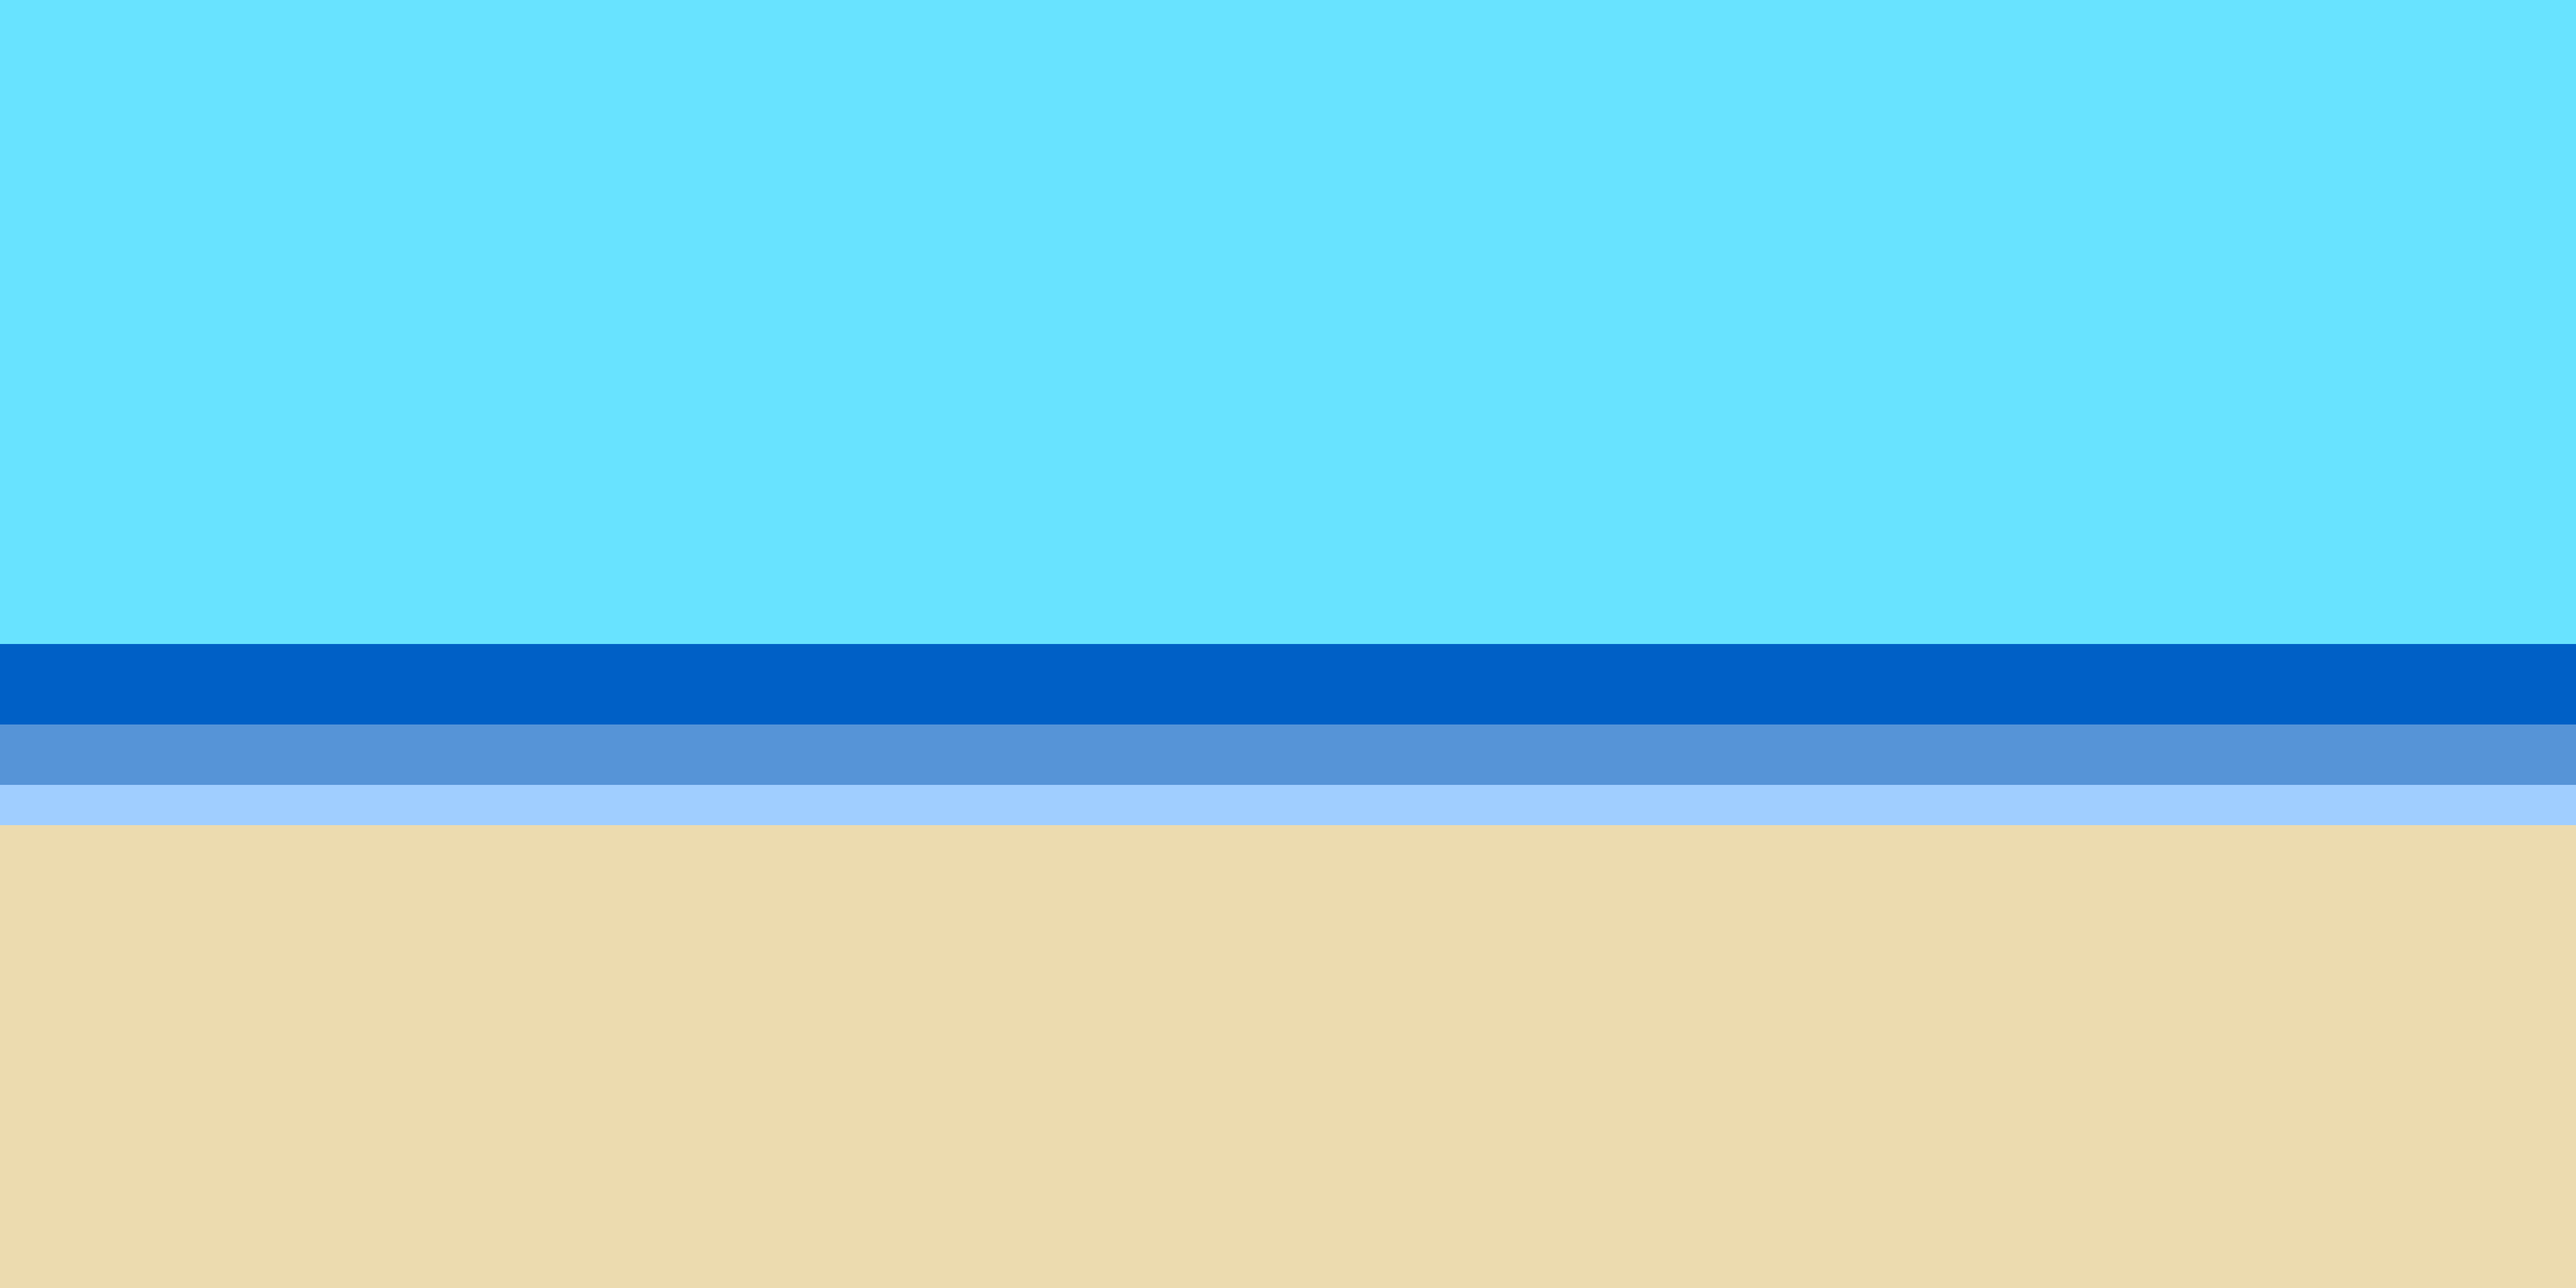
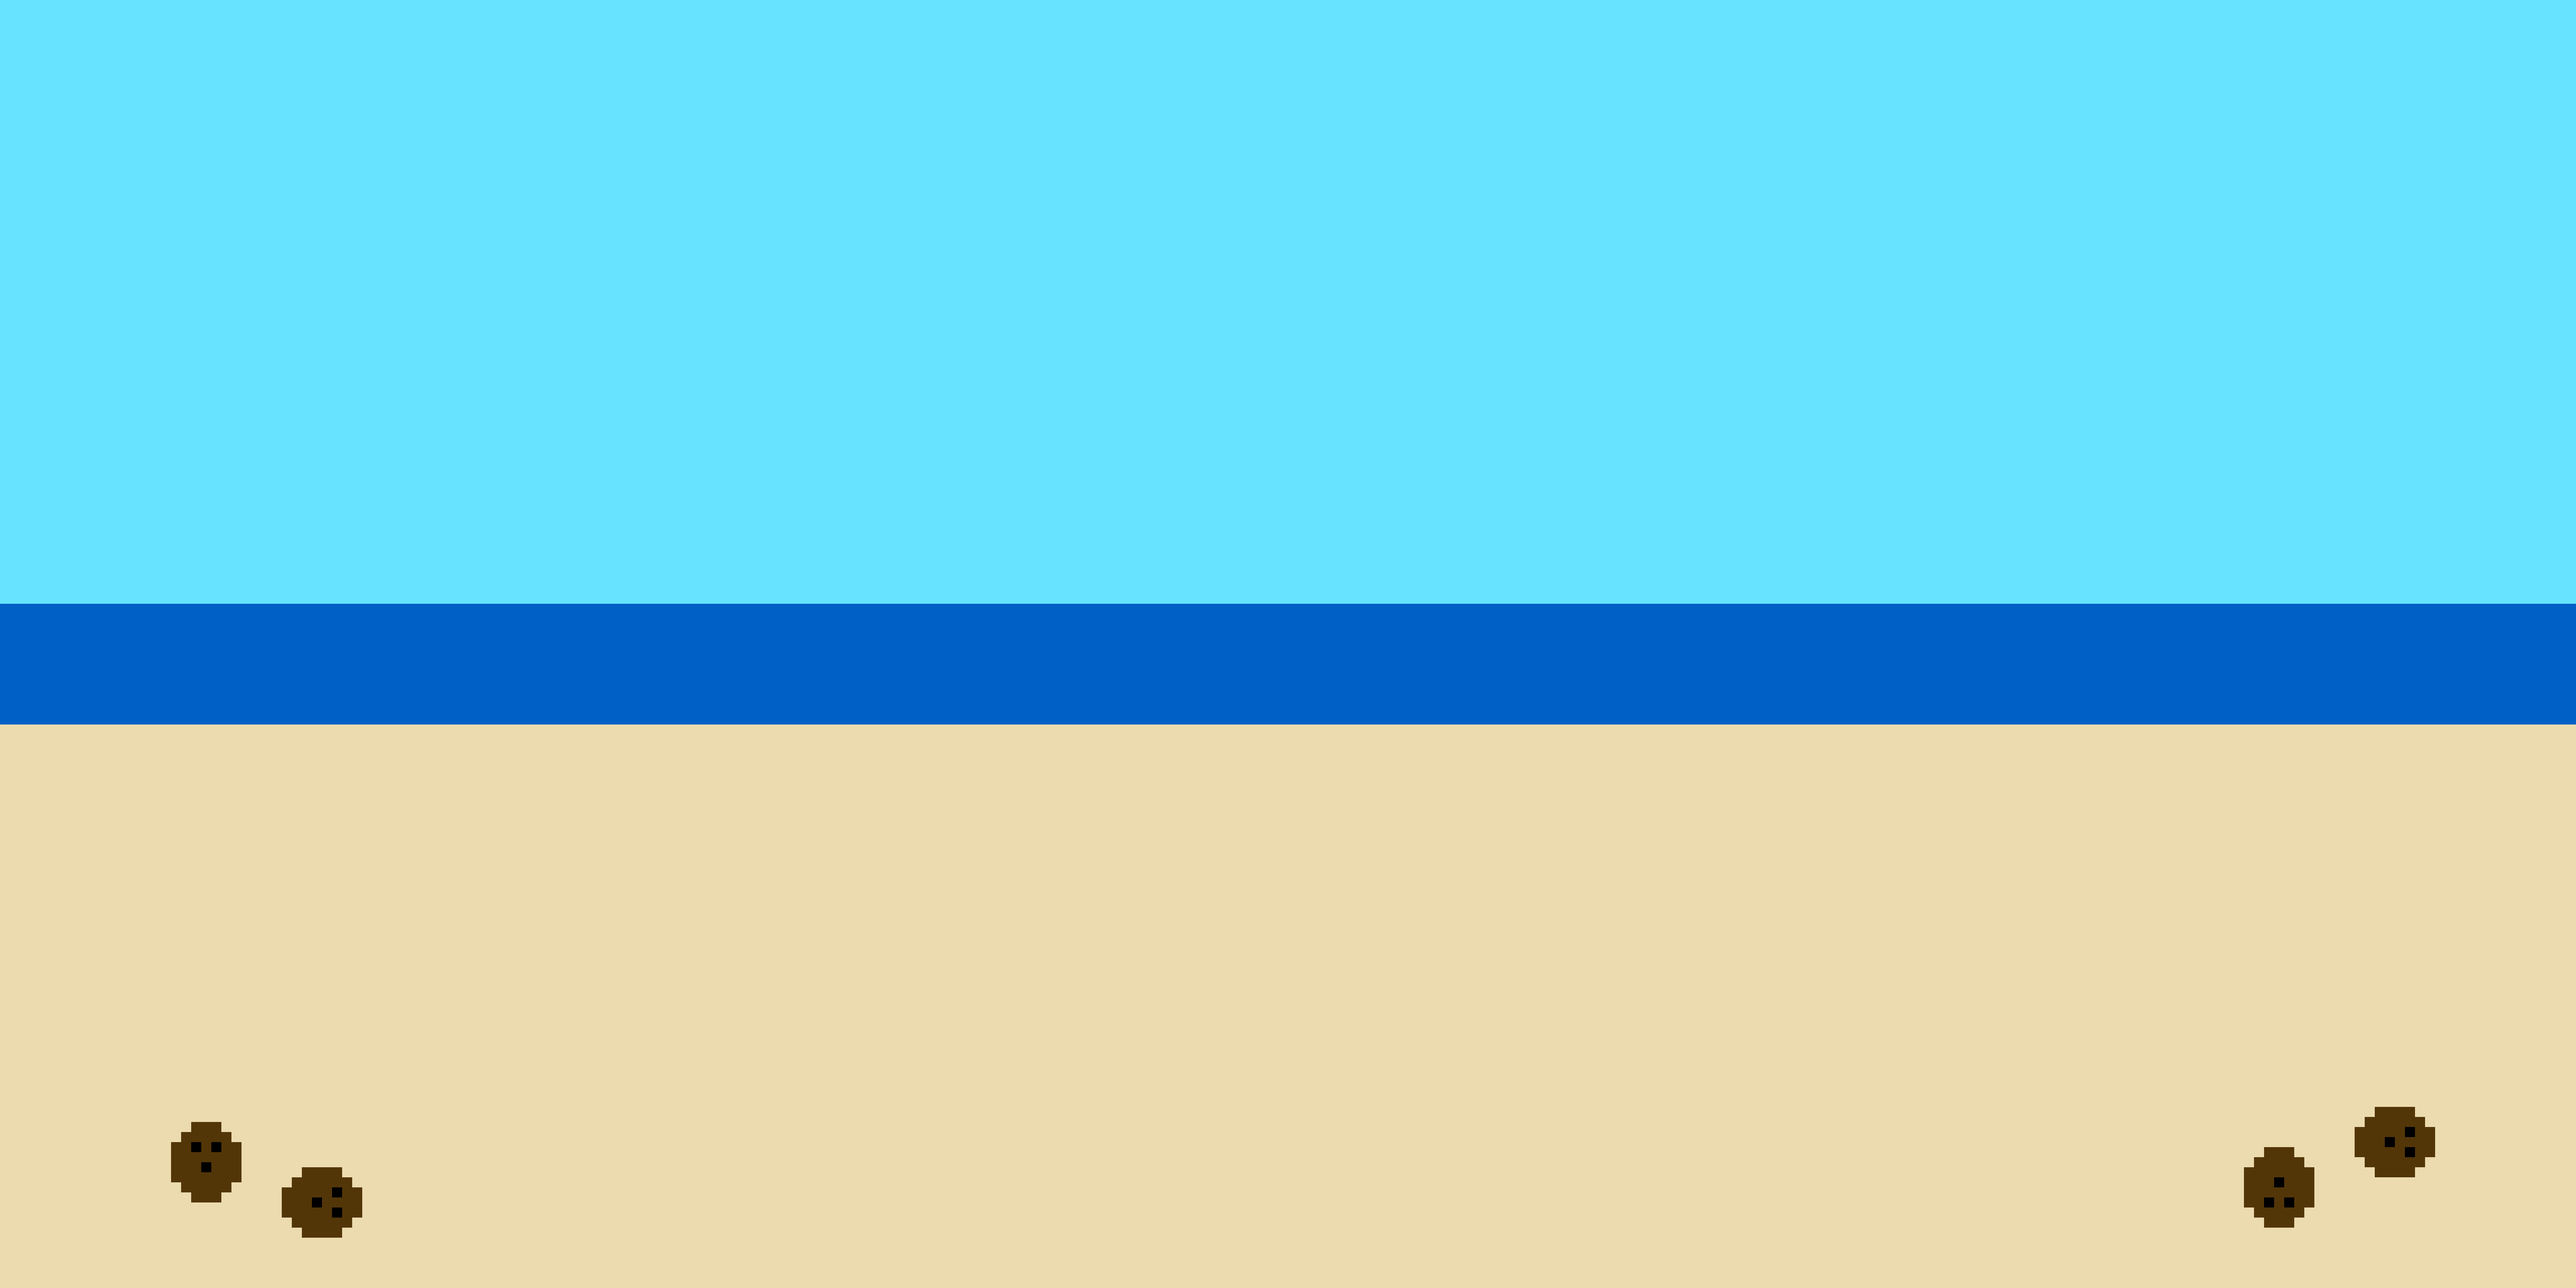
Final

diff --git a/app/src/game/scenes/game-scene.ts b/app/src/game/scenes/game-scene.ts
@@ -1,5 +1,5 @@
 import {
-  LEFT_CHEVRON, BG, CLICK, BOTTOM, TREES, BOP, POP, MUSIC
+  LEFT_CHEVRON, BG, CLICK, BOTTOM, TREES, BOP, POP, MUSIC, WAVES
 } from 'game/assets';
 import { AavegotchiGameObject } from 'types';
 import { getGameWidth, getGameHeight, getRelative } from '../helpers';
@@ -27,6 +27,7 @@ export class GameScene extends Phaser.Scene {
   private toleranceLevel = 0
   private tolText?: Phaser.GameObjects.Text
   private gameBoard?: Phaser.GameObjects.Text
+  private wave?: Phaser.GameObjects.Group  
 
   // Sounds
   private back?: Phaser.Sound.BaseSound;
@@ -41,15 +42,6 @@ export class GameScene extends Phaser.Scene {
   init = (data: { selectedGotchi: AavegotchiGameObject }): void => {
     this.selectedGotchi = data.selectedGotchi;
   };
-
-  // private energyScale = () => {
-  //   const speed = this.selectedGotchi?.withSetsNumericTraits[0] as number * 0.5
-  //   this.passEnergy(speed)
-  // }
-  // private passEnergy = (speed: number): void => {
-  //   const playerEnergy = this.player?.get()
-  //   playerEnergy.activate(speed)
-  // }
 
   private getCrab = () => {
     const size = Math.floor(Math.random() * 3) + 1 
@@ -82,8 +74,8 @@ export class GameScene extends Phaser.Scene {
     this.music = this.sound.add(MUSIC, { loop: true}) 
     this.music?.play()
     this.toleranceLevel = Math.floor(50 - (this.selectedGotchi?.withSetsNumericTraits[3] as number * 0.4))
-    this.add.image(getGameWidth(this) / 2, getGameHeight(this) / 2, BG).setDisplaySize(getGameWidth(this), getGameHeight(this));
-    this.add.image(getGameWidth(this) / 2, getGameHeight(this) / 2, TREES).setDisplaySize(getGameWidth(this), getGameHeight(this)).setDepth(0.75);
+    this.add.image(getGameWidth(this) * 0.5, getGameHeight(this) * 0.5, BG).setDisplaySize(getGameWidth(this), getGameHeight(this));
+    this.add.image(getGameWidth(this) * 0.5, getGameHeight(this) * 0.5, TREES).setDisplaySize(getGameWidth(this), getGameHeight(this)).setDepth(0.75);
     this.back = this.sound.add(CLICK, { loop: false });
     this.bopSound = this.sound.add(BOP, { loop: false});
     this.popSound = this.sound.add(POP, { loop: false});
@@ -93,7 +85,7 @@ export class GameScene extends Phaser.Scene {
     this.ballCountText = this.add.text(getGameWidth(this) * 0.33, getGameHeight(this) * 0.15, this.ballCount.toString(), { color: '#604000'}).setFontSize(getRelative(70, this)).setOrigin(0.5).setDepth(1)
     this.tolText = this.add.text(getGameWidth(this) * 0.65, getGameHeight(this) * 0.15, this.toleranceLevel.toString(), { color: '#604000'}).setFontSize(getRelative(70, this)).setOrigin(0.5).setDepth(1)
 
-    const bottom = this.add.sprite(getGameWidth(this)/2 , getGameHeight(this) * 0.75 + getGameHeight(this) / 5.3333, BOTTOM).setDisplaySize(getGameWidth(this), getGameHeight(this) / 5.3333)  
+    const bottom = this.add.sprite(getGameWidth(this) * 0.5 , getGameHeight(this) * 0.75 + getGameHeight(this) * 0.1875, BOTTOM).setDisplaySize(getGameWidth(this), getGameHeight(this) * 0.1875).setVisible(false)
     this.physics.add.existing(bottom, true)
 
     const floor = this.add.rectangle(0, getGameHeight(this) * 0.9).setDisplaySize(getGameWidth(this), 50).setOrigin(0, 0)
@@ -105,13 +97,25 @@ export class GameScene extends Phaser.Scene {
     const rightWall = this.add.rectangle(getGameWidth(this), -getGameHeight(this) * 40, 0x000000).setDisplaySize(50, getGameHeight(this) * 50,).setOrigin(0, 0)
     this.physics.add.existing(rightWall, true)
 
+    const wave = this.add.sprite(getGameWidth(this) * 0.5, getGameHeight(this) * 0.62, WAVES, 0).setDisplaySize(getGameWidth(this), getGameHeight(this) * 0.1875)
+    this.physics.add.existing(wave, true)
+
+    this.anims.create({
+      key: 'wave',
+      frameRate: 3,
+      frames: this.anims.generateFrameNumbers(WAVES, { start: 0, end: 5}),
+      repeat: -1
+    })
+
+    wave.anims.play('wave')    
+
     this.crabs = this.add.group({
       maxSize: 500,
       classType: Crab,
-    })
+      })
 
     this.getCrab()
-
+    
     this.time.addEvent({
       delay: 750 + (this.selectedGotchi?.withSetsNumericTraits[2] as number * 20),
       callback: this.getCrab,
@@ -131,7 +135,8 @@ export class GameScene extends Phaser.Scene {
       scene: this,
       x: getGameWidth(this) / 2,
       y: getGameHeight(this) / 2,
-      key: this.selectedGotchi?.spritesheetKey || ''
+      key: this.selectedGotchi?.spritesheetKey || '',
+      traits: this.selectedGotchi?.withSetsNumericTraits
     })
   
     this.physics.add.collider(bottom, this.player);
@@ -147,6 +152,7 @@ export class GameScene extends Phaser.Scene {
     if (this.ballCount > 0) {
      this.popSound?.play();
       this.ballCount--;
+      this.balls?.setVisible(false)
        Phaser.Actions.Call((this.balls as Phaser.GameObjects.Group).getChildren(), (ball) => { 
         (ball.body as Phaser.Physics.Arcade.Body).destroy();
         },

diff --git a/app/src/pages/Home/index.tsx b/app/src/pages/Home/index.tsx
@@ -159,6 +159,7 @@ const Home = () => {
         </Modal>
       )}
       <div id="title">South Beach ROFL Ball!!</div>
+      <p id="controls">Controls:    move left = A or left arrow,   move right = D or right arrow,   jump = space or D or up arrow</p>
       <div className={globalStyles.container}>
         <div className={styles.homeContainer}>
           <div className={styles.selectorContainer}>
@@ -214,7 +215,7 @@ const Home = () => {
             />
           </div>
         </div>
-        <div id="story">GM frens! Its beach day! Grab some sunscreen and your favorite gotchi and head down to South Beach for some fun in the sun! Rofl Ball is going viral in the gotchivese and your frens super excited to play, but not all gotchis are as athletic as others. Frens with high energy will move faster and those with more aggression will be able to push the ball higher. Watch out for pesky crabs on the beach, if your rofl ball gets too close they will pop it! if the gotchi you select is particularly spooky it should scare away some of the more fearful crabs. Your gotchis are not a fan of crabs so every time they get too close your fren will become more irritated. The larger your gotchis brain, the less tolerant they will be of those crabs nipping at their ghostly nethers. Since rofls are so expensive these days, you could only afford 3 rofl balls and when they are gone the game is over. The game will also end if your gotchis irritation tolerance reaches zero and you’ll have pack up and head to the pharmacy for ghost shampoo.  </div>
+        <div id="story">GM frens! Its beach day! Grab some sunscreen and your favorite gotchi and head down to South Beach for some fun in the sun! Rofl Ball is going viral in the gotchivese and your frens super excited to play, but not all gotchis are as athletic as others. Frens with high energy will move faster and those with more aggression will be able to push the ball higher. Watch out for pesky crabs on the beach, if your rofl ball gets too close they will pop it! if the gotchi you select is particularly spooky it should scare away some of the more fearful crabs. Your gotchis are not a fan of crabs so every time they get too close your fren will become more irritated. The larger your gotchis brain, the less tolerant they will be of those crabs nipping at their ghostly nethers. Since rofls are so expensive these days, you could only afford 3 rofl balls and when they are gone the game is over. The game will also end if your gotchis irritation tolerance reaches zero and you’ll have pack up and head to the pharmacy for ghost shampoo! </div>
         </div>
     </Layout>
   );

diff --git a/app/src/game/objects/player.ts b/app/src/game/objects/player.ts
@@ -1,5 +1,4 @@
 import { getGameHeight, getGameWidth } from 'game/helpers'
-import { AavegotchiGameObject} from 'types'
 
 interface Props {
   scene: Phaser.Scene;
@@ -7,6 +6,7 @@ interface Props {
   y: number;
   key: string;
   frame?: number;
+  traits?: Array<number>
 }
 
 export class Player extends Phaser.GameObjects.Sprite {
@@ -14,14 +14,12 @@ export class Player extends Phaser.GameObjects.Sprite {
   private rightKey: Phaser.Input.Keyboard.Key
   private jumpKey: Phaser.Input.Keyboard.Key
   private cursorKeys?: Phaser.Types.Input.Keyboard.CursorKeys;
-  private selectedGotchi?: AavegotchiGameObject
-  private energyScale: number
+  public traits?: Array<number>
 
-  constructor({ scene, x, y, key }: Props) {
+  constructor({ scene, x, y, key, traits }: Props) {
     super(scene, x, y, key);
 
-    this.energyScale = 0
-
+    this.traits = traits;
 
     // sprite
     this.setOrigin(0, 0);
@@ -48,22 +46,14 @@ export class Player extends Phaser.GameObjects.Sprite {
     this.rightKey = this.scene.input.keyboard.addKey(Phaser.Input.Keyboard.KeyCodes.D)
     
     this.scene.add.existing(this);
-
-    //this.energyScale = (this.selectedGotchi?.withSetsNumericTraits[0] as number * 0.05)
-
-    
   }
-
-  init = (data: { selectedGotchi: AavegotchiGameObject }): void => {
-    this.selectedGotchi = data.selectedGotchi;
-  };
 
 
   update(): void {
 
     if (this.leftKey.isDown || this.cursorKeys?.left.isDown) 
     {
-      (this.body as Phaser.Physics.Arcade.Body).setVelocityX(-getGameWidth(this.scene) * (0.4 + this.energyScale))
+      (this.body as Phaser.Physics.Arcade.Body).setVelocityX(-getGameWidth(this.scene) * 0.4)
     }
     else if (this.rightKey.isDown || this.cursorKeys?.right.isDown)
     {

diff --git a/app/src/game/objects/ball.ts b/app/src/game/objects/ball.ts
@@ -11,10 +11,10 @@ export class Ball extends Phaser.GameObjects.Sprite {
 
         this.anims.create({
             key: 'roll',
-            frameRate: 5,
+            frameRate: 7,
             frames: this.anims.generateFrameNumbers(BALL, { start: 0, end: 5}),
             repeat: -1
-          })          
+          })       
     }
 
     public activate = (dropLocation: number, dropAngle: number, bounce: number) => {
@@ -23,7 +23,7 @@ export class Ball extends Phaser.GameObjects.Sprite {
         (this.body as Phaser.Physics.Arcade.Body).setGravityY(getGameHeight(this.scene) * 1);
         (this.body as Phaser.Physics.Arcade.Body).setBounce(0.5, 0.65 + bounce);
         this.setPosition(dropLocation, 0);
-        this.anims.play('roll', true) 
+        this.anims.play('roll', true)
     }
 
 }

diff --git a/app/src/game/assets/index.tsx b/app/src/game/assets/index.tsx
@@ -27,6 +27,7 @@ export const TREES = 'trees'
 export const BOP  = 'bop'
 export const POP = 'pop'
 export const MUSIC = 'music'
+export const WAVES = 'waves'
 
 // Save all in game assets in the public folder
 export const assets: Array<Asset | SpritesheetAsset> = [
@@ -90,6 +91,15 @@ export const assets: Array<Asset | SpritesheetAsset> = [
   {
     key: MUSIC,
     src: 'assets/sounds/music.wav',
-    type: 'AUDIO'
-  }
+    type: 'AUDIO',
+  },
+  {
+    key: WAVES,
+    src: 'assets/sprites/waves.png',
+    type: 'SPRITESHEET',
+    data: {
+      frameWidth: (1024 * 6) / 1,
+      frameHeight: (576 * 6) / 6, 
+    }
+  },
  ];

diff --git a/app/src/index.css b/app/src/index.css
@@ -47,6 +47,15 @@ html {
   background-color: #6cdfff;
 }
 
+#controls {
+  color: #7b5708;
+  font-size: x-small;
+  font-weight: bold;
+  font-family: Arial, Helvetica, sans-serif;
+  text-indent: 35pt;
+
+}
+
 canvas {
   -webkit-touch-callout: none;
   -webkit-user-select: none;

diff --git a/app/src/game/objects/index.ts b/app/src/game/objects/index.ts
@@ -1,3 +1,3 @@
 export * from './ball'
 export * from './player';
-export * from "./crab"
+export * from './crab'
